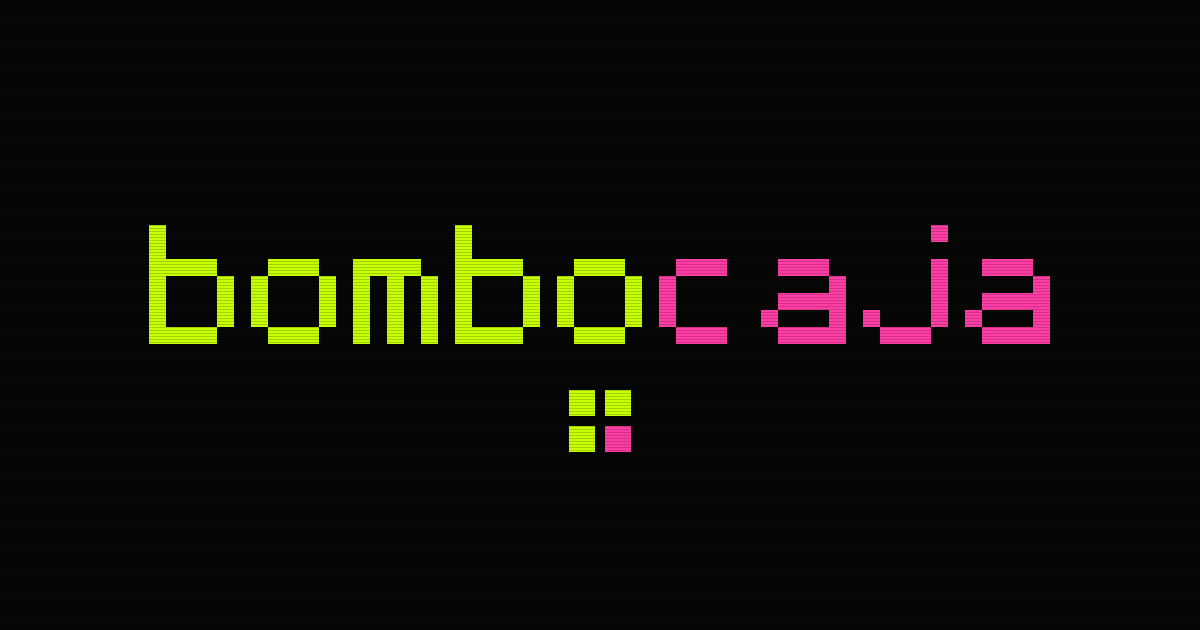
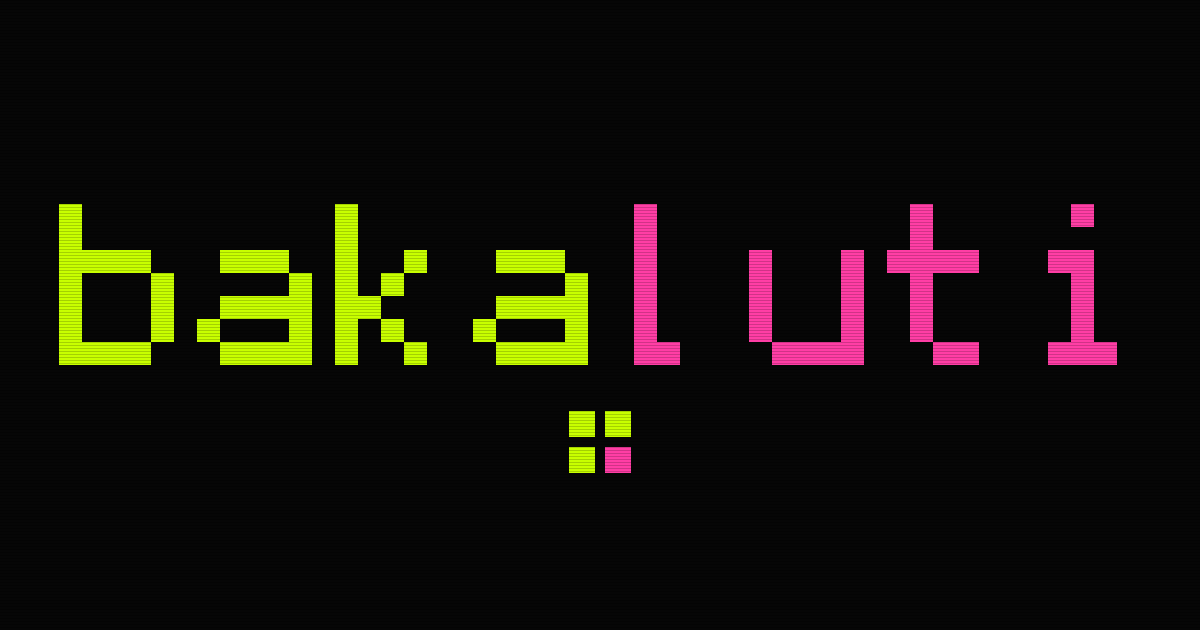
Renombrar a bakaluti + especificación del lenguaje para LLMs
- Nombre nuevo en wordmark, OG (wordmark pixel regenerado), manifest,
  wrangler (nuevo worker 'bakaluti'), título, README y textos
- Las URLs de Open Graph apuntan a https://bakaluti.com
- Claves internas de localStorage/IndexedDB sin tocar: los usuarios
  existentes conservan progreso, ritmos y grabaciones
- public/llms.txt: spec completa del lenguaje para que cualquier LLM
  (Claude Code, Cursor…) genere patrones válidos con solo esa URL

Changed region(s): [[0.0308, 0.3016, 0.9558, 0.754], [0.8942, 0.3016, 0.925, 0.3619]]

diff --git a/index.html b/index.html
@@ -7,20 +7,20 @@
     <meta name="theme-color" content="#060606" />
     <!-- Open Graph — if the app moves to a custom domain, update these URLs -->
     <meta property="og:type" content="website" />
-    <meta property="og:url" content="https://bombocaja.jheredia1984.workers.dev/" />
-    <meta property="og:title" content="bombocaja — haz música escribiendo palabras" />
+    <meta property="og:url" content="https://bakaluti.com/" />
+    <meta property="og:title" content="bakaluti — haz música escribiendo palabras" />
     <meta
       property="og:description"
       content="Ritmos, 808s, acid y tu propia voz — escribiendo palabras. Sin saber música."
     />
-    <meta property="og:image" content="https://bombocaja.jheredia1984.workers.dev/og.png" />
+    <meta property="og:image" content="https://bakaluti.com/og.png" />
     <meta name="twitter:card" content="summary_large_image" />
-    <meta name="twitter:title" content="bombocaja — haz música escribiendo palabras" />
-    <meta name="twitter:image" content="https://bombocaja.jheredia1984.workers.dev/og.png" />
+    <meta name="twitter:title" content="bakaluti — haz música escribiendo palabras" />
+    <meta name="twitter:image" content="https://bakaluti.com/og.png" />
     <link rel="icon" type="image/png" href="/icon-192.png" />
     <link rel="apple-touch-icon" href="/icon-192.png" />
     <link rel="manifest" href="/manifest.webmanifest" />
-    <title>bombocaja — juega con sonido</title>
+    <title>bakaluti — juega con sonido</title>
   </head>
   <body>
     <div id="root"></div>

diff --git a/src/components/TopNav.tsx b/src/components/TopNav.tsx
@@ -24,8 +24,8 @@ export default function TopNav({ tab, onChange }: { tab: Tab; onChange: (t: Tab)
     <header className="flex items-center gap-6 px-5 h-12 border-b border-acid/25 bg-panel shrink-0">
       <div className="text-sm tracking-widest select-none uppercase">
         <span className="text-fog">[</span>
-        <span className="text-acid">bombo</span>
-        <span className="text-mag">caja</span>
+        <span className="text-acid">baka</span>
+        <span className="text-mag">luti</span>
         <span className="text-fog"> v1.0]</span>
         <span className="text-acid blink">▮</span>
       </div>
@@ -74,8 +74,8 @@ export default function TopNav({ tab, onChange }: { tab: Tab; onChange: (t: Tab)
           >
             <div className="text-sm tracking-widest select-none uppercase">
               <span className="text-fog">[</span>
-              <span className="text-acid">bombo</span>
-              <span className="text-mag">caja</span>
+              <span className="text-acid">baka</span>
+              <span className="text-mag">luti</span>
               <span className="text-fog">]</span>
             </div>
             <p className="text-xs text-slate-300 leading-relaxed">

diff --git a/src/lib/i18n.ts b/src/lib/i18n.ts
@@ -151,7 +151,7 @@ const ES: Record<string, string> = {
   "insp.swing": "arrastra el groove (0–1)",
   "insp.drive": "distorsión (0–1)",
 
-  "about.button": "acerca de bombocaja",
+  "about.button": "acerca de bakaluti",
   "about.sounds":
     "Los sonidos vienen de `Dirt-Samples` y `tidal-drum-machines`, las librerías comunitarias del ecosistema TidalCycles. Gracias.",
   "about.inspired":
@@ -295,7 +295,7 @@ const EN: Record<string, string> = {
   "insp.swing": "drags the groove (0–1)",
   "insp.drive": "distortion (0–1)",
 
-  "about.button": "about bombocaja",
+  "about.button": "about bakaluti",
   "about.sounds":
     "Sounds come from `Dirt-Samples` and `tidal-drum-machines`, the community libraries of the TidalCycles ecosystem. Thank you.",
   "about.inspired":

diff --git a/src/components/ErrorBoundary.tsx b/src/components/ErrorBoundary.tsx
@@ -20,8 +20,8 @@ export default class ErrorBoundary extends Component<{ children: ReactNode }, St
         <div className="text-center space-y-5 max-w-sm px-6">
           <div className="text-lg tracking-widest select-none uppercase">
             <span className="text-fog">[</span>
-            <span className="text-acid">bombo</span>
-            <span className="text-mag">caja</span>
+            <span className="text-acid">baka</span>
+            <span className="text-mag">luti</span>
             <span className="text-fog">]</span>
           </div>
           <h1 className="text-xl text-slate-100 uppercase tracking-wide">{t("err.title")}</h1>

diff --git a/src/lib/gallery.ts b/src/lib/gallery.ts
@@ -10,7 +10,7 @@ export interface GalleryPattern {
 }
 
 /** The pattern loaded on a first visit — has to sound great instantly. */
-export const HERO_CODE = `-- toca cualquier palabra y escucha
+export const HERO_CODE = `-- bakaluti · toca cualquier palabra y escucha
 bd ~ [~ bd] ~ bd ~ [~ bd] ~ | kit 808 | gain 0.9 -- el bombo
 hh*2 hh hh*2 <hh ho> | kit 808 | gain 0.4 | swing 0.15 -- los hats
 0 0 3 5 | synth acid | scale menor | delay 0.2 | gain 0.7 -- bajo ácido

diff --git a/src/lib/share.test.ts b/src/lib/share.test.ts
@@ -1,7 +1,7 @@
 import { beforeEach, describe, expect, it } from "vitest";
 import { decodePattern, encodePattern, patternUrl, sharedFromHash } from "./share";
 
-const fakeLocation = { origin: "https://bombocaja.test", pathname: "/", hash: "" };
+const fakeLocation = { origin: "https://bakaluti.test", pathname: "/", hash: "" };
 
 beforeEach(() => {
   (globalThis as { location?: typeof fakeLocation }).location = { ...fakeLocation };

diff --git a/src/lib/lessons.ts b/src/lib/lessons.ts
@@ -1,7 +1,7 @@
 import { getLang } from "./i18n";
 
 /**
- * The bombocaja course. Each lesson introduces exactly one idea, assumes
+ * The bakaluti course. Each lesson introduces exactly one idea, assumes
  * zero musical knowledge, and is "passed" when the check spots the idea
  * being used in the code. Text in `intro`/`task`/`success` may use
  * `backticks` for inline code; { code } entries render as blocks.

diff --git a/public/sw.js b/public/sw.js
@@ -1,6 +1,6 @@
-/* bombocaja service worker — app shell + sample cache for offline use */
-const SHELL_CACHE = "bombocaja-shell-v1";
-const SAMPLE_CACHE = "bombocaja-samples-v1";
+/* bakaluti service worker — app shell + sample cache for offline use */
+const SHELL_CACHE = "bakaluti-shell-v1";
+const SAMPLE_CACHE = "bakaluti-samples-v1";
 
 self.addEventListener("install", () => {
   self.skipWaiting();

diff --git a/src/App.tsx b/src/App.tsx
@@ -7,6 +7,7 @@ import { sharedFromHash } from "./lib/share";
 import { DEFAULT_BPM } from "./lib/audioEngine";
 import { HERO_CODE } from "./lib/gallery";
 
+// "bombocaja.*" are legacy internal keys — kept so existing users retain their data
 const VISITED_KEY = "bombocaja.visited";
 
 // A shared pattern in the URL (#p=…) opens directly in the editor, at its tempo.

diff --git a/src/components/EditorView.tsx b/src/components/EditorView.tsx
@@ -136,7 +136,7 @@ export default function EditorView({ code, onCodeChange, bpm, onBpmChange }: Pro
       const url = URL.createObjectURL(blob);
       const a = document.createElement("a");
       a.href = url;
-      a.download = "bombocaja.wav";
+      a.download = "bakaluti.wav";
       a.click();
       URL.revokeObjectURL(url);
       flash(t("ed.exported"));

diff --git a/src/lib/storage.ts b/src/lib/storage.ts
@@ -1,3 +1,4 @@
+// "bombocaja.*" are legacy internal keys — kept so existing users retain their data
 const PROGRESS_KEY = "bombocaja.progress";
 const PATTERNS_KEY = "bombocaja.patterns";
 

diff --git a/README.md b/README.md
@@ -1,6 +1,6 @@
-# bombocaja 🥁
+# bakaluti 🥁
 
-Un mini-playground web para aprender a hacer ritmos escribiendo texto.
+Antes «bombocaja». Un mini-playground web para aprender a hacer ritmos escribiendo texto.
 Inspirado en Strudel / TidalCycles, pero radicalmente simplificado para
 gente sin ningún conocimiento musical.
 
@@ -173,6 +173,13 @@ sintetizadas de respaldo.
 - **PWA**: instalable, con service worker que cachea la app y los samples ya
   descargados (funciona sin conexión tras la primera visita; el SW solo se
   activa en el build de producción).
+
+## Para IAs (vibe coding)
+
+El lenguaje es inventado, así que los LLMs no lo conocen de serie. La
+especificación completa vive en [`/llms.txt`](public/llms.txt) — en
+producción: `https://bakaluti.com/llms.txt`. Pásasela a Claude Code,
+Cursor o cualquier modelo como contexto y generará patrones válidos.
 
 ## Créditos y licencia
 
